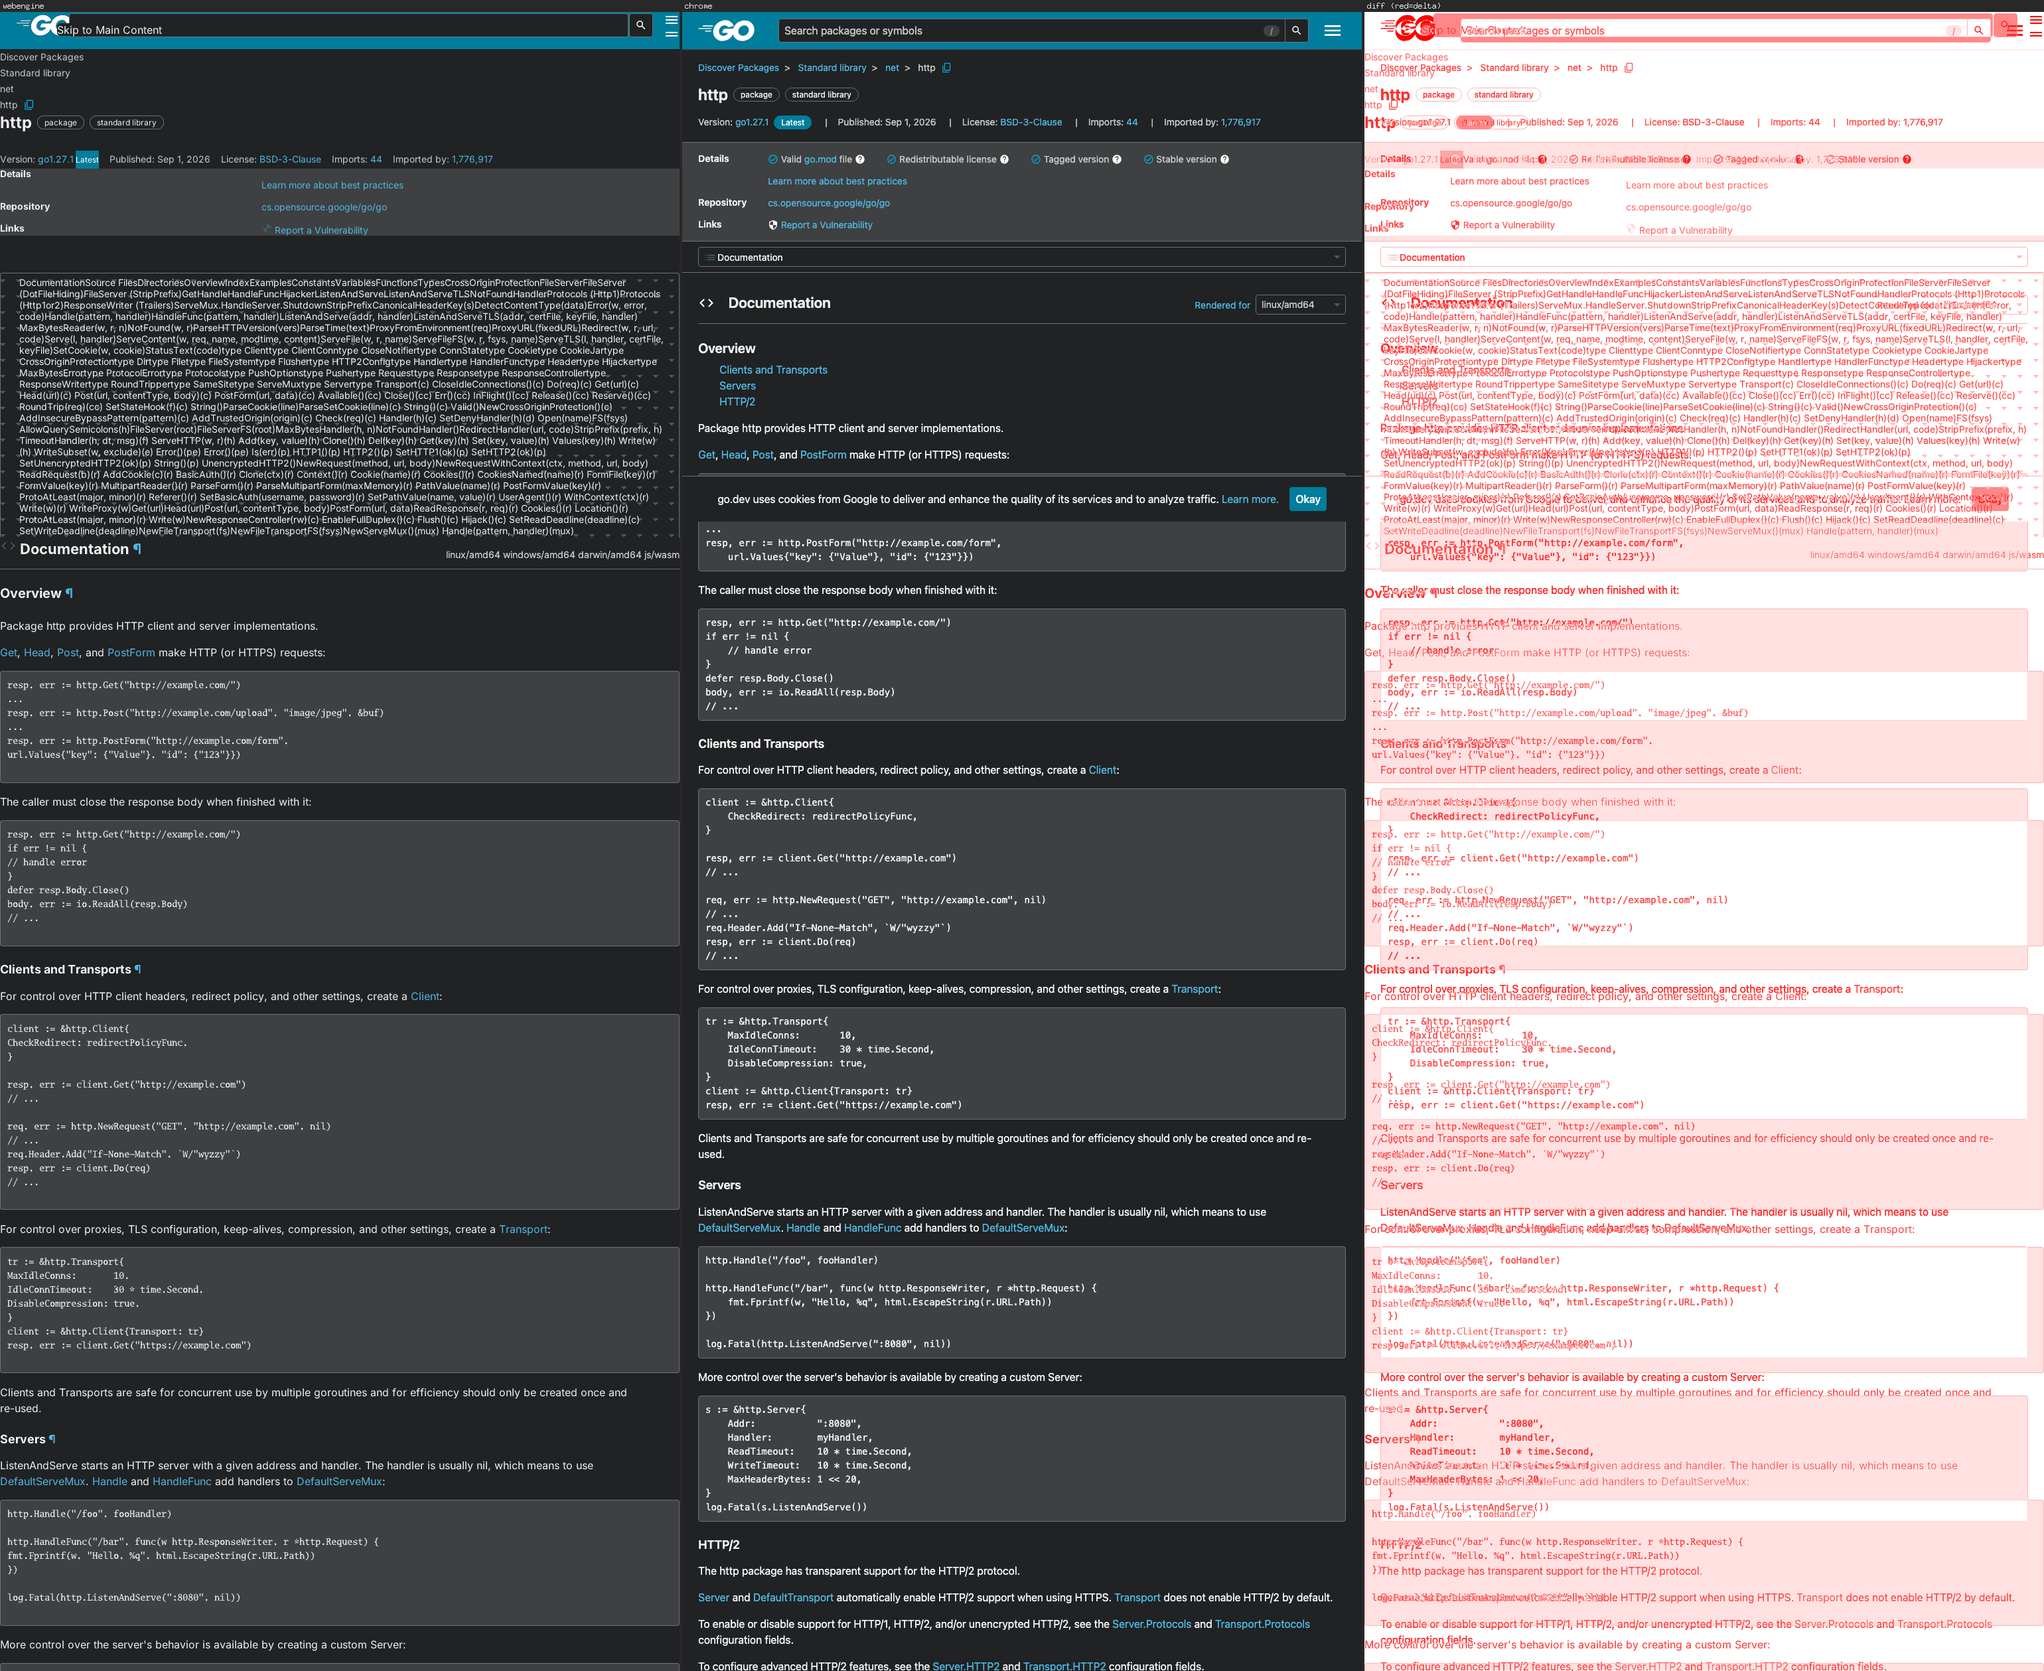
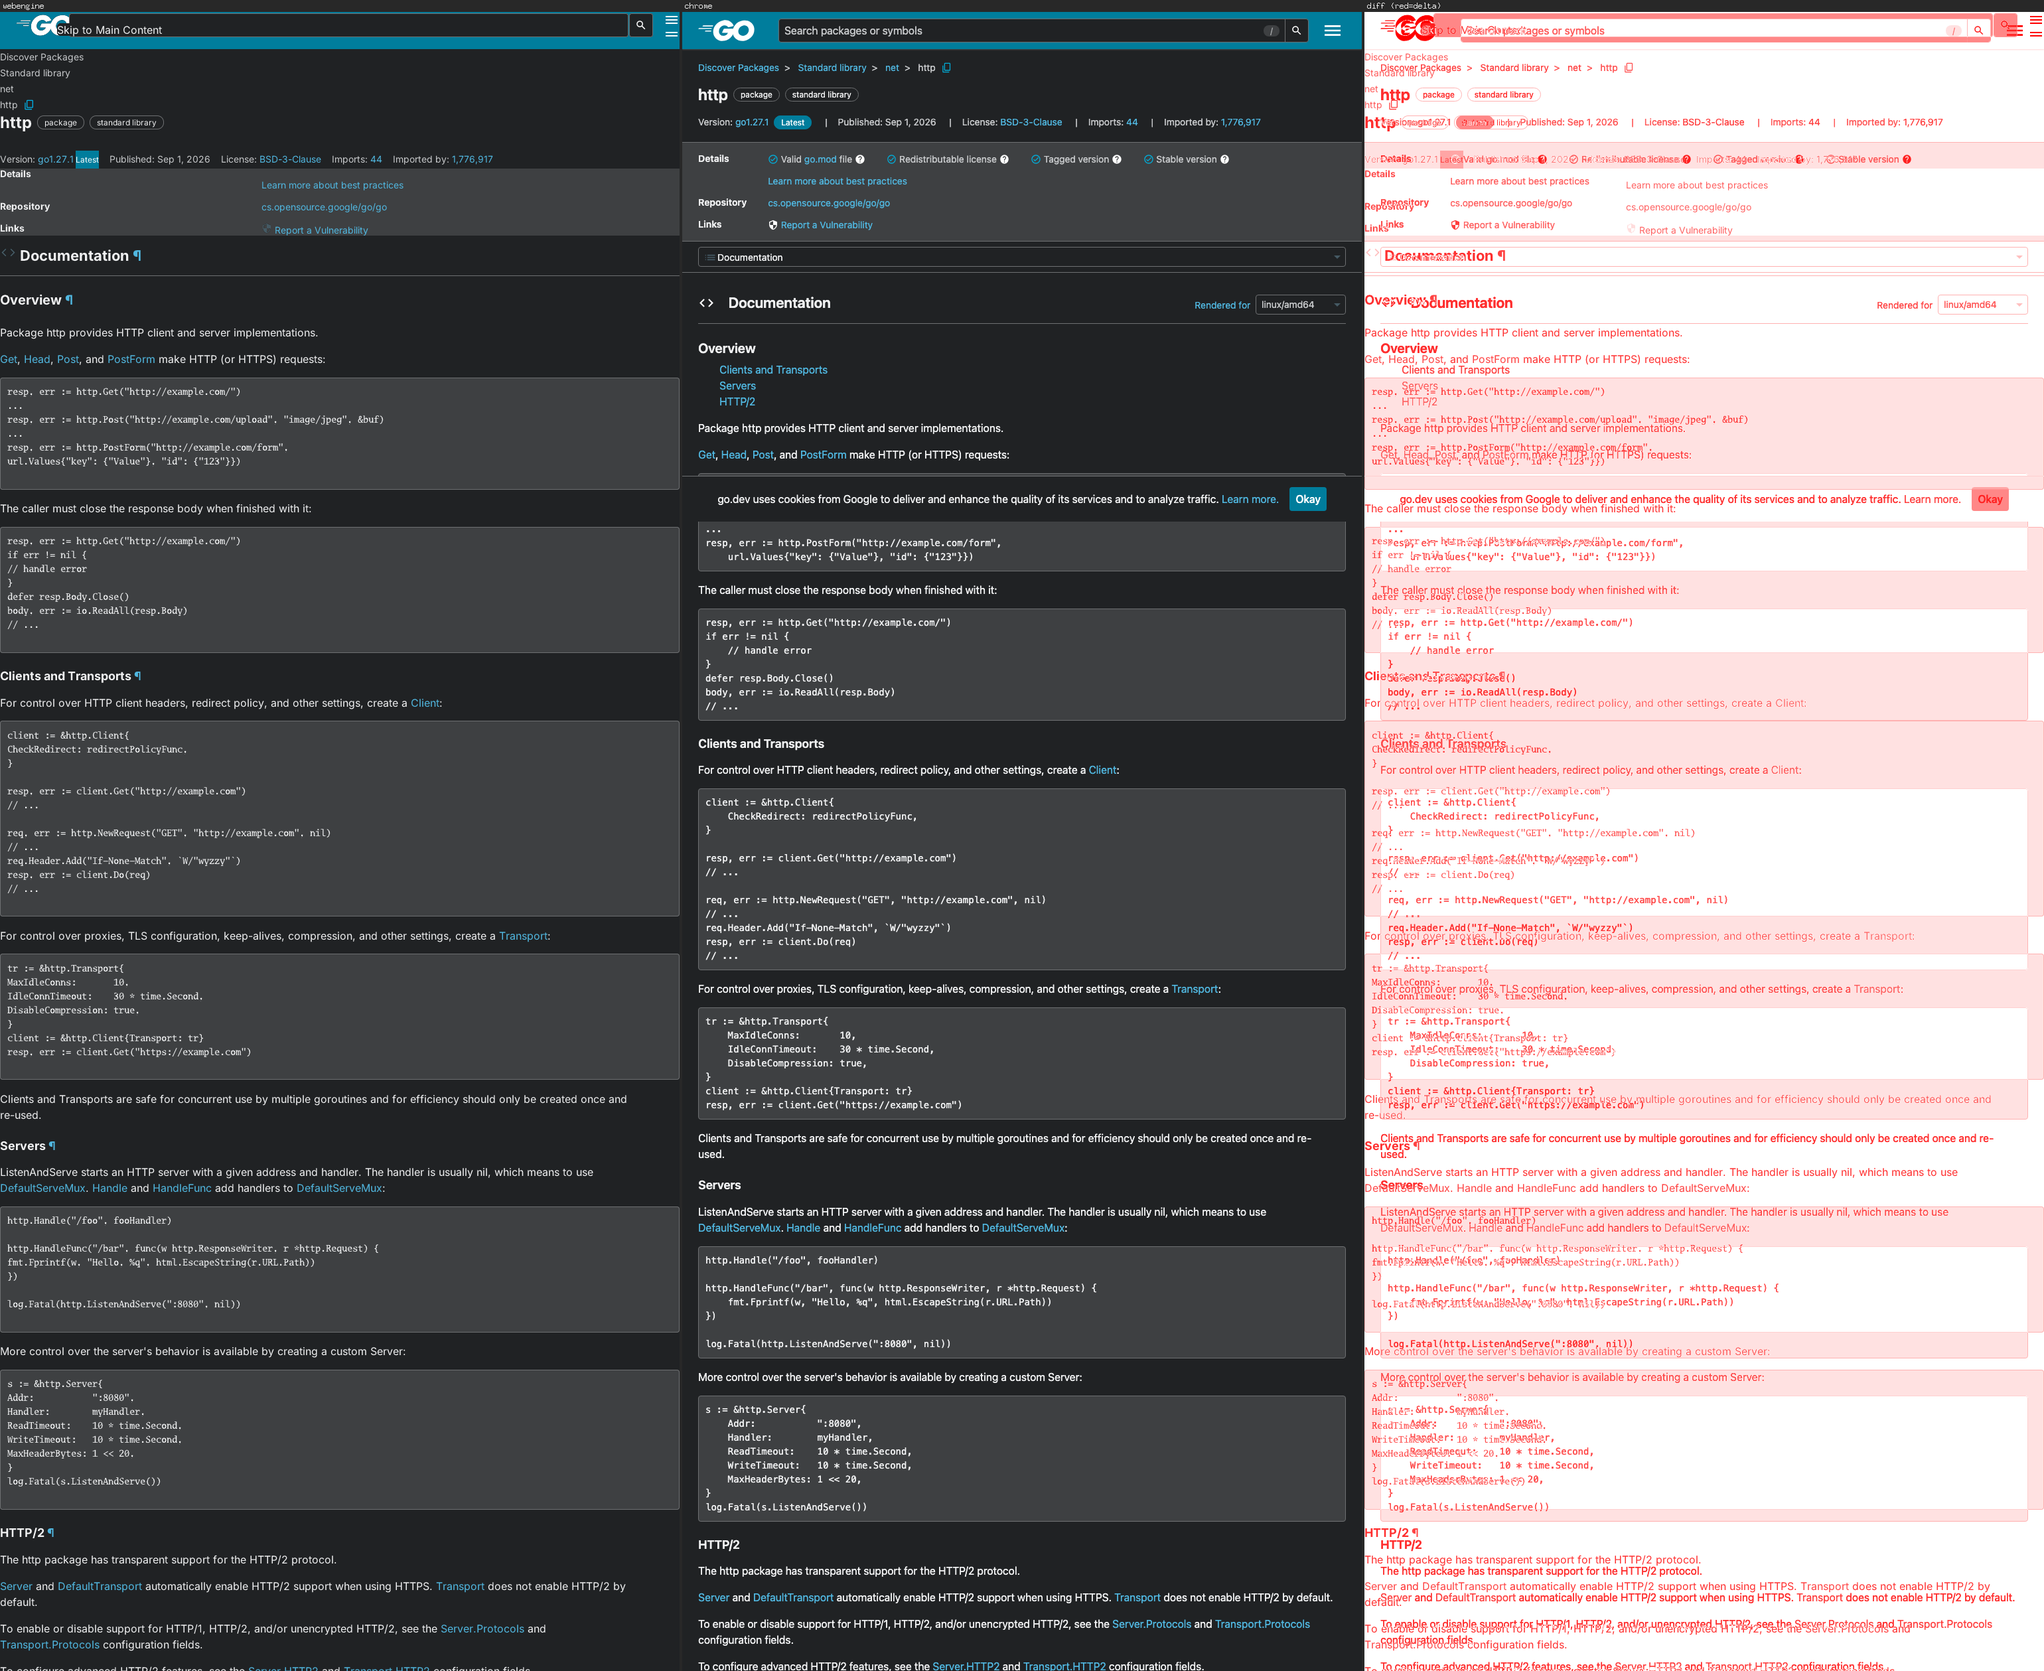
fix(css): hide <option> content instead of leaking it into layout (#94)
* fix(css): hide <option> content instead of leaking it into layout

A <select> falls into the generic display:inline UA bucket alongside
<button>/<input>, but unlike those its <option> children carry real
visible text with no UA rule to say a native control never lays it
out. Observed live on pkg.go.dev/net/http: a version/tab-switcher
<select> holding the page's entire symbol index as option text
rendered as a garbled, concatenated block near the top of the page.

Fixed with the same precedent already used for <template>'s inert
content: option { display: none }. Matches the existing, accepted
simplification that an <input>'s value is never shown either.

pkg.go.dev/net/http: SSIM 0.530->0.616, pixdiff 45.8%->40.0%. Full
10-page bench corpus re-run confirms nothing else regressed.

* fix PR number citation: engine#93 -> engine#94 (a concurrent PR landed as #93 while this branch was in flight)

diff --git a/layout/cover2_test.go b/layout/cover2_test.go
@@ -55,6 +55,35 @@ func TestFlexContainerEmptyStaysCollapsed(t *testing.T) {
 	}
 }
 
+// TestSelectOptionsDoNotLeakIntoLayout covers a real regression: a real
+// <select> is a replaced, OS-native control that shows only its selected
+// option on one line, entirely opaque to CSS box layout — but this engine had
+// no special-casing for <option> at all, so its text flowed as ordinary
+// inline content. Observed live on pkg.go.dev/net/http: a version/tab-switcher
+// <select> holding dozens of <option>s (one holding the page's entire
+// alphabetical symbol index as option text) rendered every option's text
+// wrapped across hundreds of pixels at the select's DOM position, instead of
+// the empty single-line box a real browser's native widget shows.
+func TestSelectOptionsDoNotLeakIntoLayout(t *testing.T) {
+	src := `<html><body style="margin:0">before<select>` +
+		`<option>AAAAAAAAAA</option><option>BBBBBBBBBB</option></select>after</body></html>`
+	root := layoutHTML(t, src, 300)
+	var walk func(b *Box)
+	walk = func(b *Box) {
+		for _, ln := range b.Lines {
+			for _, it := range ln.Items {
+				if it.Text == "AAAAAAAAAA" || it.Text == "BBBBBBBBBB" {
+					t.Fatalf("option text leaked into layout: %q", it.Text)
+				}
+			}
+		}
+		for _, c := range b.Children {
+			walk(c)
+		}
+	}
+	walk(root)
+}
+
 func TestFlexItemAutoBasisPreferred(t *testing.T) {
 	// A flex item with no width/basis uses its max-content width ("xxx" = 30).
 	src := `<html><body style="margin:0"><div style="display:flex">` +

diff --git a/css/ua.go b/css/ua.go
@@ -115,6 +115,21 @@ func uaDeclarations(tag string) []Declaration {
 		return []Declaration{{Property: "display", Value: "inline"}}
 	case "head", "title", "style", "script", "meta", "link", "base", "noscript":
 		return []Declaration{{Property: "display", Value: "none"}}
+	case "option":
+		// A real <select> is a replaced, OS-native control: it shows only the
+		// currently selected option's text, on one line, entirely opaque to CSS
+		// box layout — <option>/<optgroup> children never participate in normal
+		// document flow the way this engine's generic "select" (line 114,
+		// display:inline) fallback implies. Observed live on pkg.go.dev/net/http:
+		// its version/tab-switcher <select> (dozens of <option>s, one holding the
+		// page's ENTIRE alphabetical symbol index as option text) rendered every
+		// option's text as ordinary inline content, wrapping across 455px/~19
+		// lines of concatenated identifiers stacked at the select's DOM position.
+		// This engine has no native form-control rendering at all (an <input>'s
+		// value is equally never shown — an existing, accepted simplification),
+		// so hiding <option> content is the same honest-about-the-gap choice
+		// already used for <template>'s subtree above, not a new kind of gap.
+		return []Declaration{{Property: "display", Value: "none"}}
 	case "template":
 		// A <template>'s children are inert: per the HTML spec they live in the
 		// element's .content DocumentFragment, never in the normal document tree,

diff --git a/css/ua_test.go b/css/ua_test.go
@@ -49,7 +49,7 @@ func TestUADeclarationsAllBranches(t *testing.T) {
 			t.Errorf("%s: expected display:inline", tag)
 		}
 	}
-	hidden := []string{"head", "title", "style", "script", "meta", "link", "base", "noscript", "template"}
+	hidden := []string{"head", "title", "style", "script", "meta", "link", "base", "noscript", "template", "option"}
 	for _, tag := range hidden {
 		if !hasDisplay(uaDeclarations(tag), "none") {
 			t.Errorf("%s: expected display:none", tag)

diff --git a/FIDELITY.md b/FIDELITY.md
@@ -18,6 +18,63 @@ The committed PNGs under `testdata/renders/` back every claim here. Reproduce
 them with the commands at the bottom. The measured-vs-Chrome numbers live in
 [`bench/REPORT.md`](bench/REPORT.md).
 
+## 2026-09-03 — pkg.go.dev's garbled top-of-page text block root-caused: `<option>` had no user-agent styling at all
+
+pkg.go.dev/net/http had the corpus's highest pixdiff (45.8%) after the
+react.dev flex-bare-text fix. Chased visually: a dense, unbroken block of
+concatenated identifier text ("DocumentationSourceFilesDirectoriesOverview
+IndexExamplesConstantsVariablesFunctionsTypesCrossOriginProtectionFileServer…")
+rendered near the top of the page, overlapping the sidebar's "Details/
+Repository/Links" section — not the page's real, legitimate `Documentation-
+index` symbol list (confirmed present and correctly positioned much further
+down, at the same place a real browser puts it).
+
+Root-caused with a live box-tree dump (a temporary white-box `_test.go` in
+package `engine`, calling the same internal `renderCore` pipeline `Render`/
+`RenderHTML` use, walking the real box tree for any text containing a marker
+string unique to the garbled block) rather than guessing from the screenshot —
+the same technique used in round 4's tailwindcss.com grid investigation. The
+match traced straight to a `<select class="go-Select js-selectNav">`
+(pkg.go.dev's version/tab-switcher dropdown, `go-Main-navMobile`) whose
+`<option>` children include the page's entire alphabetical symbol/example
+index as option text.
+
+**This engine's user-agent stylesheet has never had any special case for
+`<option>`** (`css/ua.go`) — `<select>` itself falls into the same generic
+`display:inline` bucket as `<button>`/`<input>`/`<textarea>`, but unlike those
+(which are void or have no meaningful child text), a `<select>`'s `<option>`
+children carry real, visible text nodes. A real `<select>` is a replaced,
+OS-native control that shows only the currently selected option on one line,
+entirely opaque to CSS box layout; without any UA rule saying so, this
+engine laid out every `<option>`'s text as ordinary inline content, wrapping
+across ~19 lines/455px at the select's DOM position. Fixed with one addition
+to `uaDeclarations`: `option { display: none }` — the exact same "honest
+about the gap" precedent already used for `<template>`'s inert content just
+above it in the same file (this engine has no native form-control rendering
+at all; an `<input>`'s `value` going unshown is an existing, accepted
+simplification this now matches rather than diverges from).
+
+**Verified live:** the garbled block is completely gone from
+`cmd/render`'s output; the page's real content (Overview, code examples,
+Clients and Transports, Servers, …) now lines up closely with Chrome's
+rendering from the very top of the page.
+
+**Measured:** pkg.go.dev/net/http SSIM 0.530→0.616, pixdiff 45.8%→40.0%.
+Confirmed via a full 10-page bench corpus re-run that nothing else regressed;
+every other page's number held within its already-documented noise band.
+
+Regression test `TestSelectOptionsDoNotLeakIntoLayout` (`layout/cover2_test.go`)
+reproduces the failure shape directly (a `<select>` with two long `<option>`
+texts, asserting neither string appears in ANY box's laid-out text anywhere
+in the tree — the first version of this test only checked the document
+root's own `Lines` field, which is always empty for a root `<html>` box, and
+so passed even without the fix; walking the full tree was needed to actually
+exercise the regression, caught by reverting the fix locally and watching the
+corrected test fail with the predicted leaked text before restoring it).
+`css/ua_test.go`'s `TestUADeclarationsAllBranches` was extended to cover the
+new `option` branch, holding the `css` package's coverage-ratchet gate at
+its 99.5% floor.
+
 ## 2026-09-02 (cont. 3) — a real flexbox layout bug fixed: a `display:flex` element with bare text content collapsed to zero size
 
 react.dev held the corpus's highest pixdiff for a while: its hero `<h1>React</h1>`
@@ -1580,6 +1637,16 @@ columns.
 
 ## Known gaps (updated 2026-08-30 — see the note above on why this drifted)
 
+- **No native form-control rendering at all** — an `<input>`'s `value`/
+  `placeholder` was never shown (an existing, accepted simplification), and
+  as of 2026-09-03 (engine#94) `<option>` is explicitly hidden (`display:
+  none`) rather than left to leak its text into ordinary layout, matching
+  that same simplification rather than diverging from it. A real `<select>`
+  never shows anything at all in this engine — not even its selected
+  option's text on one line, the way a real browser's native widget does —
+  which is a real, currently-unclaimed gap of its own if a page's fidelity
+  ever hinges specifically on a dropdown's visible label rather than just on
+  its surrounding content not being corrupted.
 - **The settle loop's empty-render guard (`reskin()`, engine#84) cannot
   restyle a node that a rejected script pass REMOVED from the DOM** —
   confirmed live on react.dev (2026-09-02, engine#92): its hero `<h1>` and

diff --git a/bench/REPORT.md b/bench/REPORT.md
@@ -2,7 +2,7 @@
 
 <!-- AUTO-GENERATED: this header, the results table and the montage list are regenerated by `go run ./cmd/compare`. The hand-written analysis below the BEGIN ANALYSIS marker is preserved across re-runs. -->
 
-**Generated:** 2026-09-02 17:51 UTC  
+**Generated:** 2026-09-02 19:08 UTC  
 **Viewport:** 1024×768, device-scale 1  
 **Timing:** median of N=5 runs after 1 warmup, wall-clock incl. network fetch  
 **Chrome:** `/Applications/Google Chrome.app/Contents/MacOS/Google Chrome`  
@@ -11,16 +11,16 @@
 <!-- BEGIN RESULTS TABLE -->
 | URL | SSIM | pixdiff % | webengine ms | chrome ms | speed× | region | status |
 |-----|-----:|----------:|-------------:|----------:|-------:|:------:|:------:|
-| example.com/ | 0.954 | 1.5 | 52.0 | 1783.2 | 34.27 | 1024×768 | ok |
-| en.wikipedia.org/wiki/Go_(programming_language) | 0.422 | 22.4 | 1406.2 | 4134.2 | 2.94 | 1024×2500 | ok |
-| pkg.go.dev/net/http | 0.530 | 45.8 | 3374.9 | 4029.7 | 1.19 | 1024×2500 | ok |
-| go.dev/blog/ | 0.681 | 28.1 | 3132.8 | 2836.8 | 0.91 | 1024×1597 | ok |
-| react.dev/ | 0.605 | 47.6 | 2263.5 | 2721.2 | 1.20 | 1024×2500 | ok |
-| news.ycombinator.com/ | 0.589 | 13.3 | 1773.5 | 2884.2 | 1.63 | 1024×1214 | ok |
-| developer.mozilla.org/en-US/docs/Web/CSS | 0.613 | 17.4 | 323.1 | 1925.3 | 5.96 | 1009×2500 | ok |
-| github.com/golang/go | 0.532 | 32.8 | 1656.0 | 2187.4 | 1.32 | 1024×2500 | ok |
-| tailwindcss.com/ | 0.644 | 15.2 | 3219.9 | 2325.3 | 0.72 | 1024×2500 | ok |
-| caniuse.com/ | 0.648 | 22.1 | 3701.1 | 3787.2 | 1.02 | 1024×1503 | ok |
+| example.com/ | 0.954 | 1.5 | 62.9 | 1782.1 | 28.33 | 1024×768 | ok |
+| en.wikipedia.org/wiki/Go_(programming_language) | 0.422 | 22.4 | 1476.7 | 4152.7 | 2.81 | 1024×2500 | ok |
+| pkg.go.dev/net/http | 0.616 | 40.0 | 3289.5 | 4032.7 | 1.23 | 1024×2500 | ok |
+| go.dev/blog/ | 0.679 | 28.0 | 3426.2 | 2847.4 | 0.83 | 1024×1597 | ok |
+| react.dev/ | 0.605 | 47.6 | 2230.2 | 2752.0 | 1.23 | 1024×2500 | ok |
+| news.ycombinator.com/ | 0.600 | 13.1 | 1755.8 | 2843.7 | 1.62 | 1024×1214 | ok |
+| developer.mozilla.org/en-US/docs/Web/CSS | 0.613 | 17.4 | 329.5 | 1941.9 | 5.89 | 1009×2500 | ok |
+| github.com/golang/go | 0.532 | 32.8 | 1633.5 | 2194.6 | 1.34 | 1024×2500 | ok |
+| tailwindcss.com/ | 0.646 | 15.1 | 3077.9 | 2318.2 | 0.75 | 1024×2500 | ok |
+| caniuse.com/ | 0.648 | 22.1 | 3744.2 | 3738.0 | 1.00 | 1024×1503 | ok |
 <!-- END RESULTS TABLE -->
 
 Speed× is `chrome_ms / webengine_ms`: >1 means webengine is faster.
@@ -68,6 +68,25 @@ Speed× is `chrome_ms / webengine_ms`: >1 means webengine is faster.
 ![caniuse.com/](out/caniuse.com.png)
 
 <!-- BEGIN ANALYSIS (hand-written, preserved across re-runs) -->
+
+## Honest analysis — 2026-09-03: pkg.go.dev's garbled top-of-page text block fixed — `<option>` had no UA styling at all (engine#94)
+
+**pkg.go.dev/net/http: SSIM 0.530→0.616, pixdiff 45.8%→40.0%.** A dense,
+concatenated block of identifier text rendered near the top of the page,
+overlapping the sidebar — traced via a live box-tree dump to a `<select>`
+(pkg.go.dev's version/tab-switcher dropdown) whose `<option>` children
+include the page's entire alphabetical symbol index as text. This engine's
+UA stylesheet never special-cased `<option>` at all — `<select>` falls into
+the generic `display:inline` bucket alongside `<button>`/`<input>`, but
+unlike those, `<option>` carries real visible text that then flowed as
+ordinary inline content instead of being hidden inside the (unrendered)
+native control. Fixed with one addition to `uaDeclarations`:
+`option { display: none }`, the same precedent already used for
+`<template>`'s inert content. See FIDELITY.md for the full root-cause
+account, including a regression test that initially passed even without the
+fix (checked only the document root's own empty `Lines` field) until
+rewritten to walk the whole box tree. Confirmed via a full 10-page bench
+re-run that nothing else regressed.
 
 ## Honest analysis — 2026-09-02 (cont. 3): a real flexbox layout bug fixed (engine#92)
 
